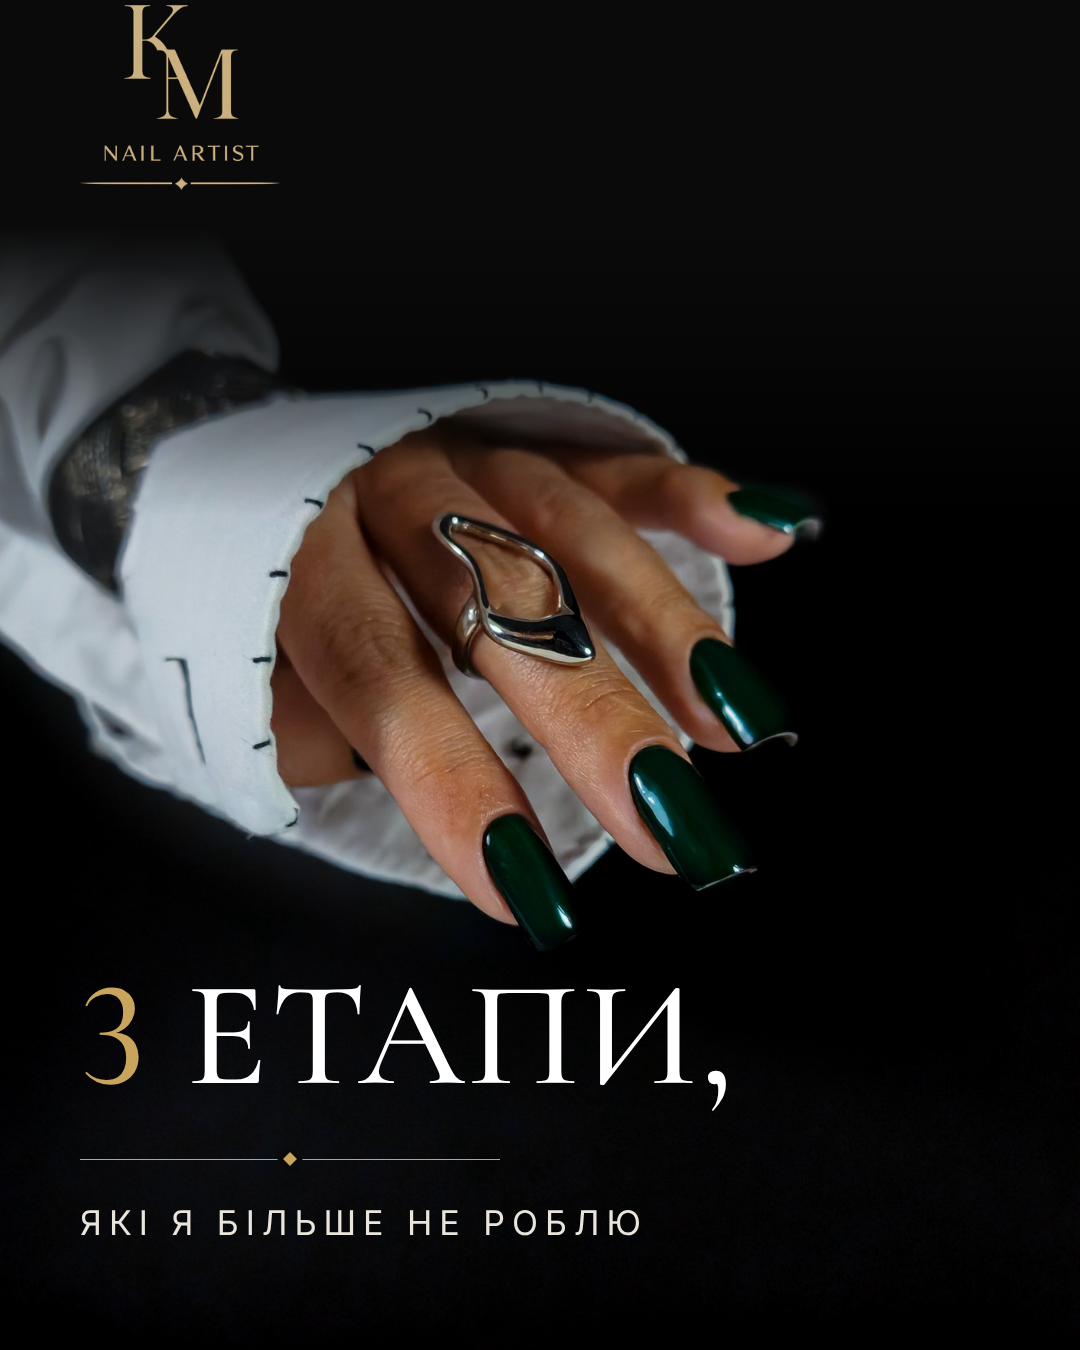
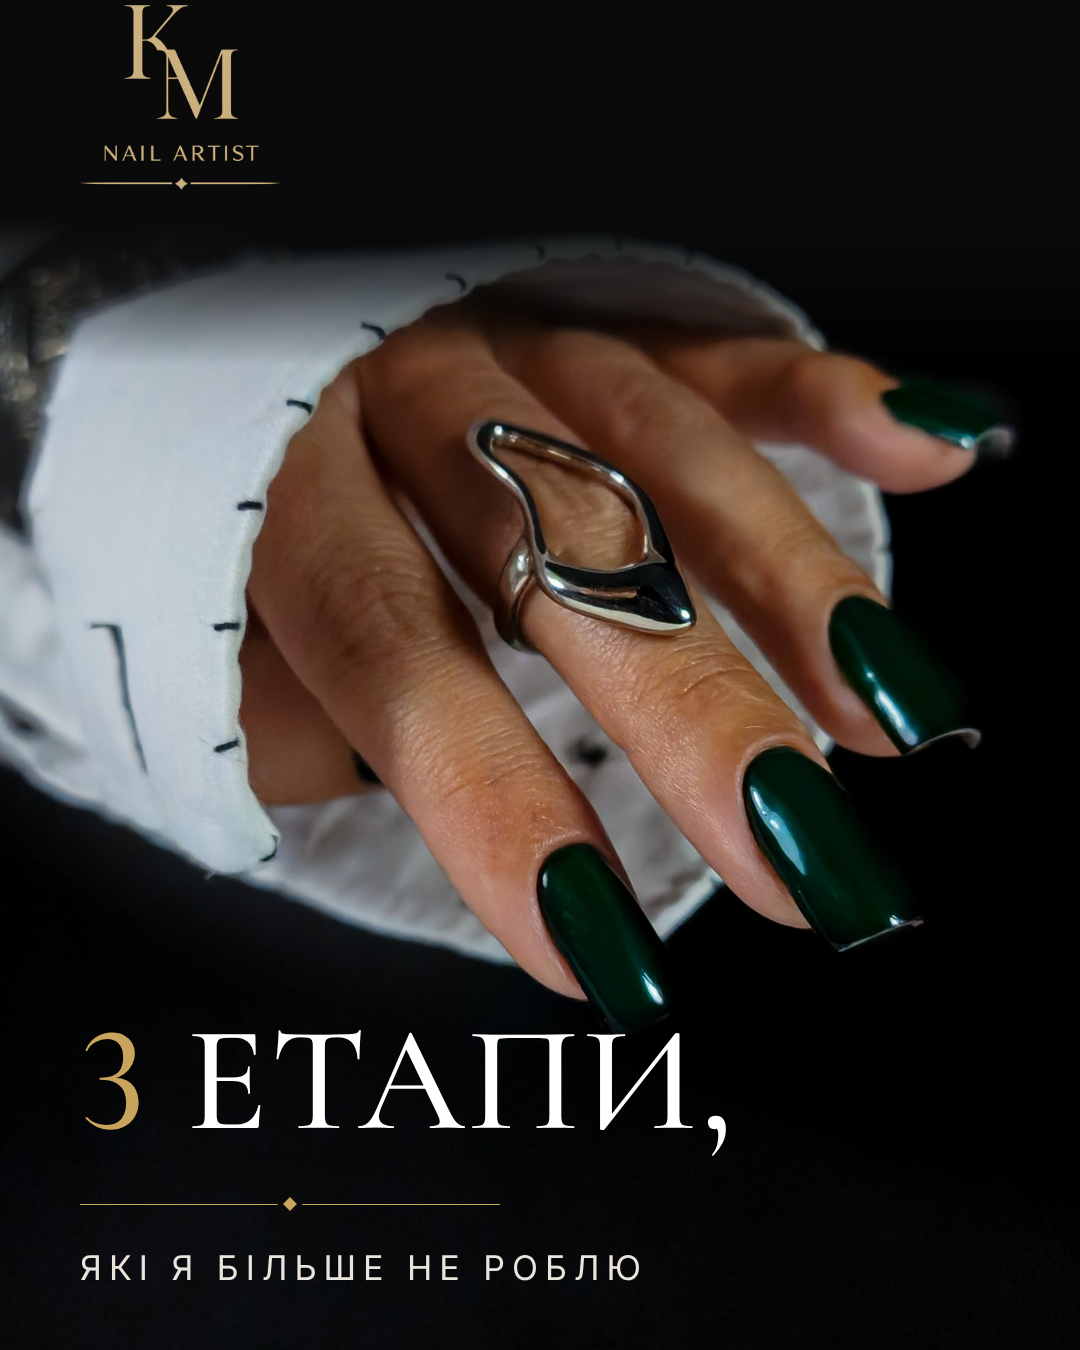
Frame green-nails Reels cover tighter so the hand fills the width
Claude-Session: https://claude.ai/code/session_01MEGGhSdPE82PkZyTaQrXUD

diff --git a/reels-covers/cover916.js b/reels-covers/cover916.js
@@ -6,6 +6,7 @@ const { chromium } = require('playwright');
 
 const bg = path.resolve(process.argv[2]);
 const textTop = Number(process.argv[4] || 1190);
+const shadeEnd = Number(process.argv[5] || 800);
 const out = path.resolve(process.argv[3]);
 
 const LOGO = { left: 80, top: 290, width: 200 };
@@ -19,8 +20,8 @@ const html = `<!doctype html><html><head><meta charset="utf-8"><style>
 body { width: 1080px; height: 1920px; position: relative; overflow: hidden; background: #0a0a0a; }
 .bg { position: absolute; inset: 0; width: 1080px; height: 1920px; }
 /* притемнення під логотипом */
-.shade { position: absolute; left: 0; right: 0; top: 0; height: 800px;
-  background: linear-gradient(#0a0a0a 0%, #0a0a0a 64%, rgba(10,10,10,.6) 80%, rgba(10,10,10,0) 100%); }
+.shade { position: absolute; left: 0; right: 0; top: 0; height: ${shadeEnd}px;
+  background: linear-gradient(#0a0a0a 0px, #0a0a0a 505px, rgba(10,10,10,.6) ${505 + (shadeEnd - 505) * 0.45}px, rgba(10,10,10,0) ${shadeEnd}px); }
 .logo { position: absolute; left: ${LOGO.left}px; top: ${LOGO.top}px; width: ${LOGO.width}px; }
 .t { position: absolute; left: 80px; right: 200px; top: ${textTop}px; color: #fff; font-family: C, serif; font-variant-numeric: lining-nums; }
 h1 { font-size: 150px; font-weight: 500; line-height: 1; letter-spacing: 3px; text-transform: uppercase; }

diff --git a/reels-covers/prep916.py b/reels-covers/prep916.py
@@ -1,6 +1,7 @@
 """Готує фон 1080×1920 з фото 4:5: опускає чорну точку фону до ~#0A0A0A
 і добудовує темний низ кадру тим самим тоном із легким зерном, щоб не було шва.
-Використання: python3 prep916.py photos/in.jpg photos/out-916.png [зсув_фото_вниз]"""
+Використання: python3 prep916.py photos/in.jpg photos/out-916.png [зсув_вниз] [масштаб] [x_початку_кадру]
+Масштаб і x — у пікселях оригіналу; без них фото вписується по ширині."""
 import sys
 
 import numpy as np
@@ -11,7 +12,10 @@ offset = int(sys.argv[3]) if len(sys.argv) > 3 else 0
 W, H = 1080, 1920
 
 im = Image.open(src).convert('RGB')
-im = im.resize((W, round(im.height * W / im.width)), Image.LANCZOS)
+scale = float(sys.argv[4]) if len(sys.argv) > 4 else W / im.width
+x0 = int(sys.argv[5]) if len(sys.argv) > 5 else 0
+im = im.resize((round(im.width * scale), round(im.height * scale)), Image.LANCZOS)
+im = im.crop((round(x0 * scale), 0, round(x0 * scale) + W, im.height))
 a = np.asarray(im, dtype=np.float32)
 
 # Чорна точка: темні ділянки тягнемо до нейтрального тону не світлішого за #0A0A0A
@@ -27,9 +31,10 @@ fill = a[-60:].reshape(-1, 3).mean(axis=0)
 canvas[:] = fill
 rng = np.random.default_rng(7)
 canvas += rng.normal(0, 1.0, canvas.shape)
-h = min(a.shape[0], H - offset)
-canvas[offset:offset + h] = a[:h]
-if offset:
+top = max(offset, 0)
+h = min(a.shape[0] + min(offset, 0), H - top)
+canvas[top:top + h] = a[-min(offset, 0):-min(offset, 0) + h]
+if offset > 0:
     canvas[:offset] = fill + rng.normal(0, 1.0, (offset, W, 3))
 
 Image.fromarray(np.clip(canvas, 0, 255).astype(np.uint8)).save(dst)
